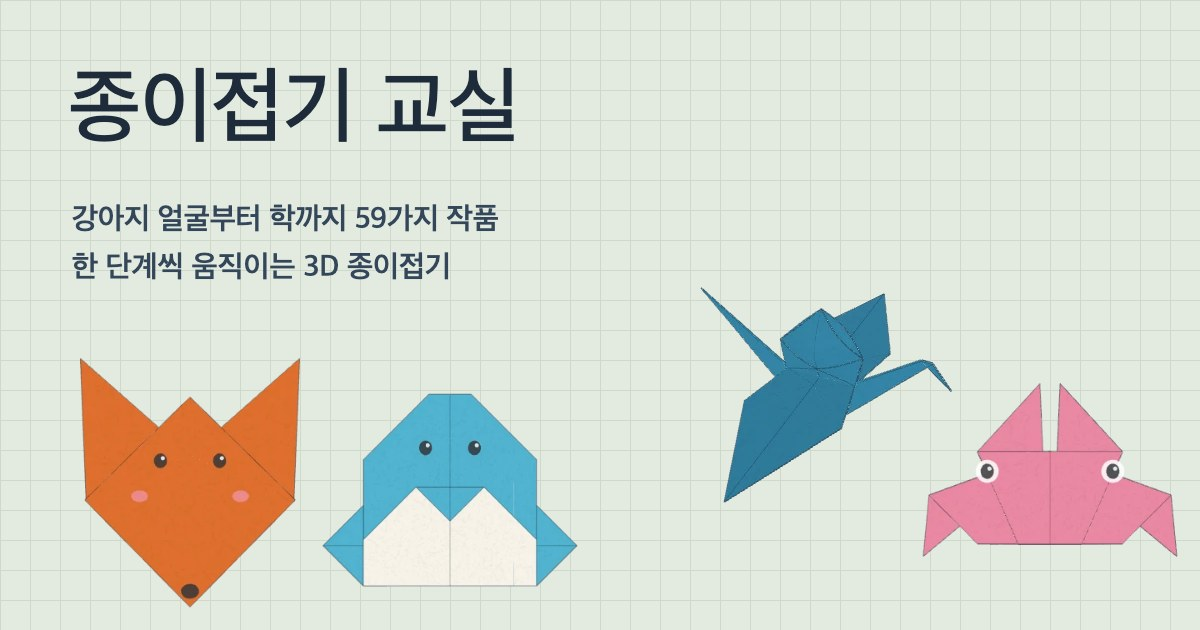
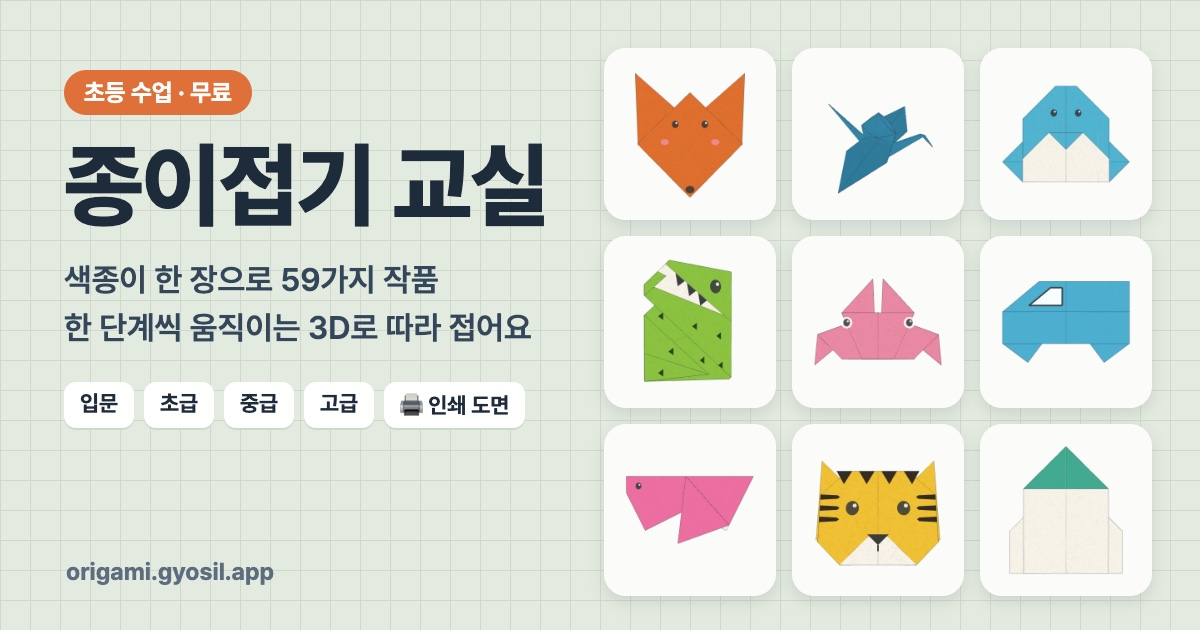
공유 미리보기 이미지 새로 만들기 (작품 9개 카드·난이도·주소), og 이미지 alt·type 추가

diff --git a/scripts/og.html b/scripts/og.html
@@ -1,15 +1,35 @@
 <!doctype html>
-<!-- 공유 미리보기(og.jpg) 원본: 크롬 헤드리스로 1200x630 캡처 → jpg. http://localhost:5173/scripts/og.html --><html><head><meta charset="utf-8"><style>
+<!-- 공유 미리보기(og.jpg) 원본: 크롬 헤드리스로 1200x630 캡처 → jpg. http://localhost:5173/scripts/og.html --><html><head><meta charset="utf-8">
+<link rel="stylesheet" href="https://cdn.jsdelivr.net/gh/orioncactus/pretendard@v1.3.9/dist/web/static/pretendard.min.css"><style>
 html,body{margin:0;width:1200px;height:630px;overflow:hidden;font-family:Pretendard,"Apple SD Gothic Neo",system-ui,sans-serif;background:#e3eadf;
 background-image:linear-gradient(#cfd9cb 1px,transparent 1px),linear-gradient(90deg,#cfd9cb 1px,transparent 1px);background-size:30px 30px;color:#1e2b3a}
-h1{position:absolute;left:68px;top:60px;margin:0;font-size:84px;font-weight:500;letter-spacing:-1px}
-p{position:absolute;left:72px;top:196px;margin:0;font-size:30px;line-height:1.6;color:#33465a;font-weight:600}
-img{position:absolute;width:300px;height:300px}
+.left{position:absolute;left:64px;top:70px;width:520px}
+.tag{display:inline-block;font-size:24px;font-weight:700;color:#fff;background:#e0703a;border-radius:999px;padding:8px 20px}
+h1{margin:22px 0 0;font-size:92px;font-weight:800;letter-spacing:-2px;line-height:1.05}
+p{margin:22px 0 0;font-size:32px;line-height:1.5;color:#33465a;font-weight:600}
+.chips{margin-top:30px;display:flex;gap:10px}
+.chips span{font-size:22px;font-weight:700;padding:8px 16px;border-radius:12px;background:#fff;box-shadow:0 2px 0 #cfd9cb}
+.url{position:absolute;left:66px;bottom:44px;font-size:24px;font-weight:700;color:#5b6d7f}
+.grid{position:absolute;right:48px;top:48px;display:grid;grid-template-columns:repeat(3,172px);gap:16px}
+.card{width:172px;height:172px;background:#fbfcf9;border-radius:22px;box-shadow:0 6px 16px rgba(30,43,58,.12);display:flex;align-items:center;justify-content:center}
+.card img{width:150px;height:150px}
 </style></head><body>
-<h1>종이접기 교실</h1>
-<p>강아지 얼굴부터 학까지 59가지 작품<br>한 단계씩 움직이는 3D 종이접기</p>
-<img src="../thumbs/fox.webp" style="left:40px;top:330px">
-<img src="../thumbs/penguin.webp" style="left:300px;top:340px">
-<img src="../thumbs/crane.webp" style="left:640px;top:180px;width:360px;height:360px">
-<img src="../thumbs/crab.webp" style="left:900px;top:320px">
+<div class="left">
+  <span class="tag">초등 수업 · 무료</span>
+  <h1>종이접기 교실</h1>
+  <p>색종이 한 장으로 59가지 작품<br>한 단계씩 움직이는 3D로 따라 접어요</p>
+  <div class="chips"><span>입문</span><span>초급</span><span>중급</span><span>고급</span><span>🖨 인쇄 도면</span></div>
+</div>
+<div class="url">origami.gyosil.app</div>
+<div class="grid">
+  <div class="card"><img src="../thumbs/fox.webp"></div>
+  <div class="card"><img src="../thumbs/crane.webp"></div>
+  <div class="card"><img src="../thumbs/penguin.webp"></div>
+  <div class="card"><img src="../thumbs/tyranno.webp"></div>
+  <div class="card"><img src="../thumbs/crab.webp"></div>
+  <div class="card"><img src="../thumbs/car.webp"></div>
+  <div class="card"><img src="../thumbs/goldfish.webp"></div>
+  <div class="card"><img src="../thumbs/tiger.webp"></div>
+  <div class="card"><img src="../thumbs/rocket.webp"></div>
+</div>
 </body></html>

diff --git a/index.html b/index.html
@@ -19,7 +19,9 @@
   <meta name="robots" content="index, follow" />
   <meta property="og:locale" content="ko_KR" />
   <meta property="og:locale:alternate" content="en_US" />
-  <meta property="og:image:alt" content="종이접기 교실의 3D 종이접기 작품들" />
+  <meta property="og:image:alt" content="종이접기 교실 - 여우·학·펭귄·공룡 등 59가지 3D 종이접기 작품" />
+  <meta property="og:image:type" content="image/jpeg" />
+  <meta name="twitter:image:alt" content="종이접기 교실 - 여우·학·펭귄·공룡 등 59가지 3D 종이접기 작품" />
   <meta name="twitter:title" content="종이접기 교실 - 한 단계씩 움직이는 3D 종이접기" />
   <meta name="twitter:description" content="강아지 얼굴부터 학까지, 입문부터 고급까지 작품을 3D로 천천히 접어 보여 줘요." />
   <meta name="twitter:image" content="https://origami.gyosil.app/og.jpg" />
